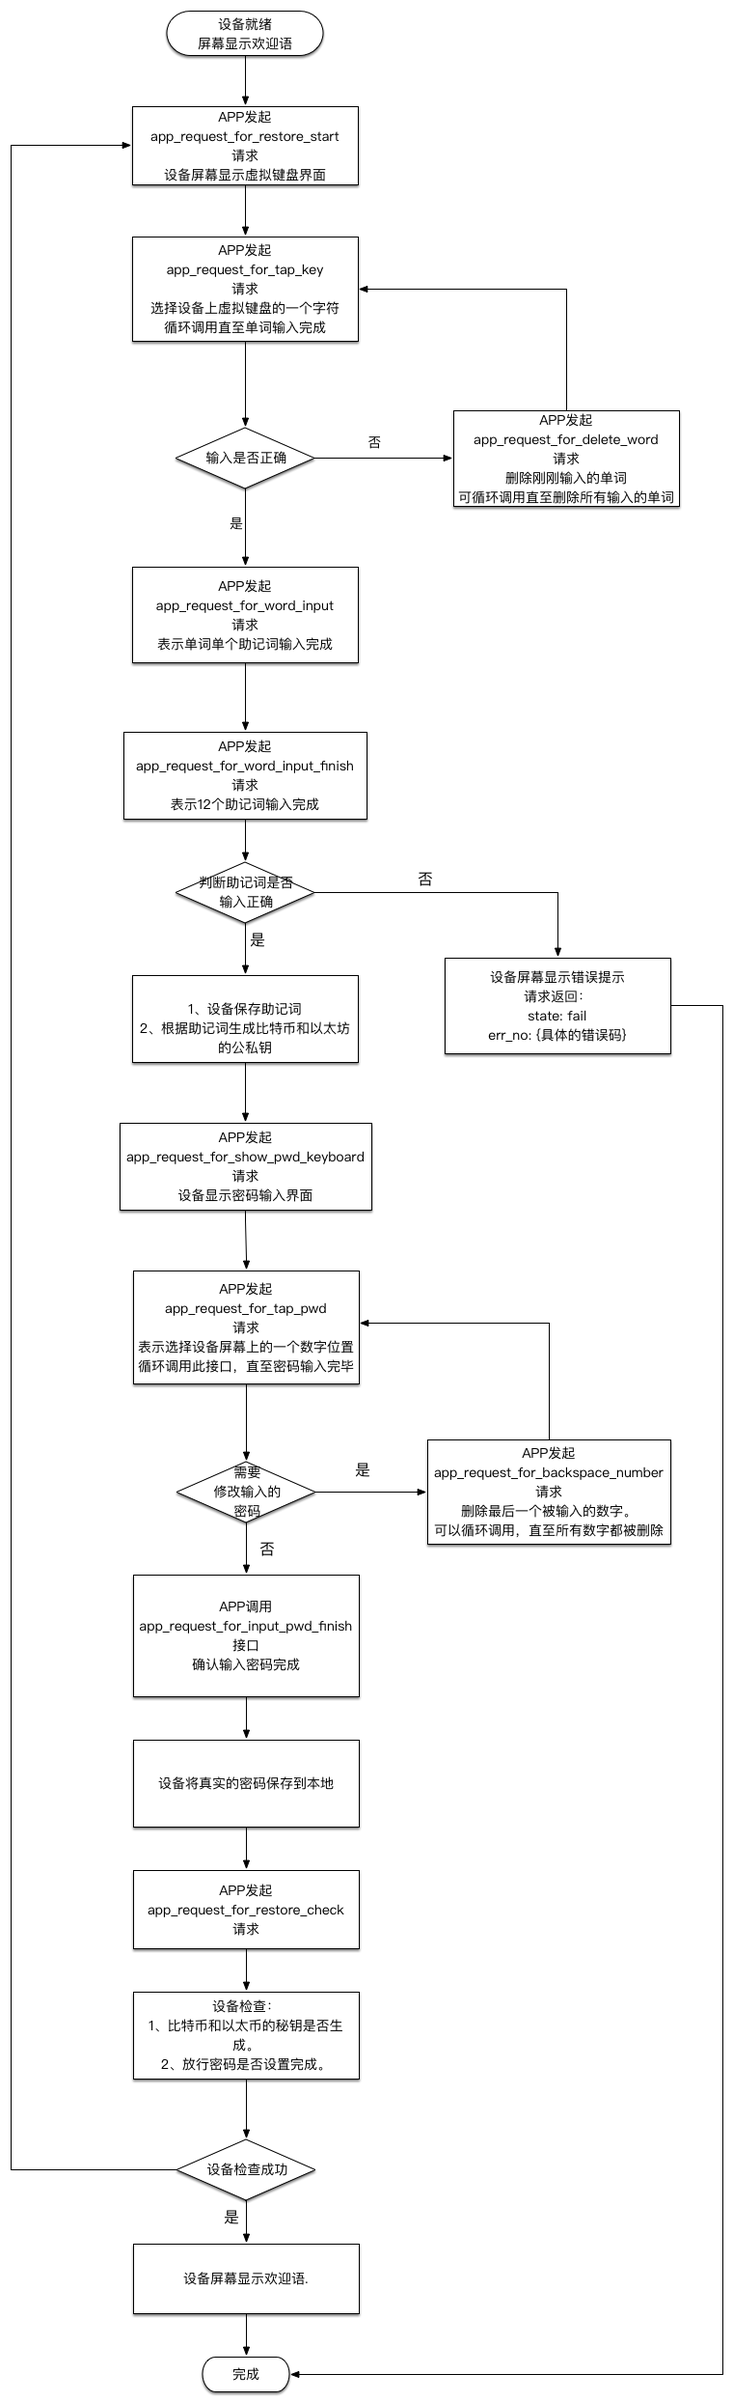
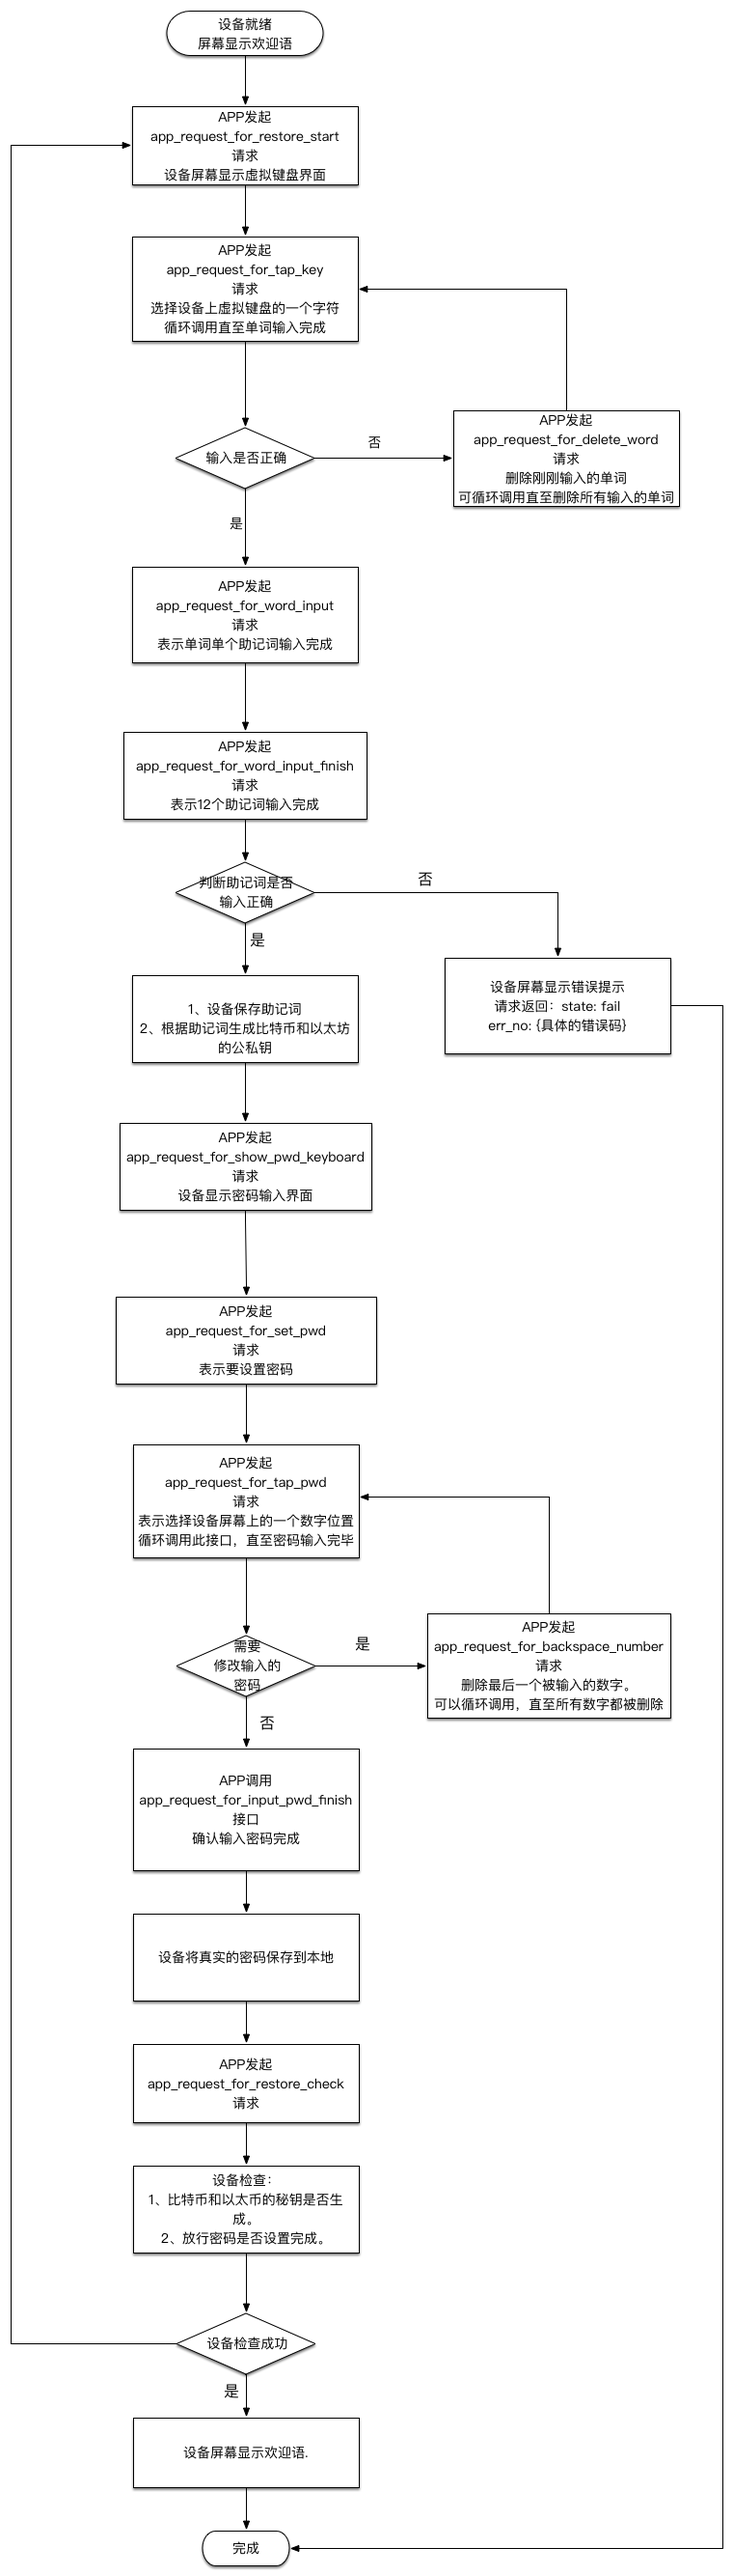
API update

diff --git a/zh-cn/HD Wallet Communication API.md b/zh-cn/HD Wallet Communication API.md
@@ -41,7 +41,21 @@
     unit: 单位 BTC, ETH, EOS, ...
   </td></tr>
 
+  <tr><td>v2.0</td><td>2018-07-06</td><td>
+    app_request_for_restore_check, app_request_for_init接口增加testnet参数
+    <br>
+    app_request_for_restore_check, app_request_for_init_check接口增加ok_for_device_name,ok_for_pin, root_address, bitcoin_pub, bitcoin_address, eth_pub, eth_address返回值。
+    <br>
+    device_request_for_connection接口增加bitcoin_pub, bitcoin_address, eth_pub, eth_address四个参数
+    <br>
+    添加恢复出厂设置接口 app_request_for_device_reset
+    <br>
+    添加助记词随机验证接口 app_request_for_mnemonic_check_start, app_request_for_mnemonic_check_input
+  </td></tr>
+
   
+
+ 
 </table>
 
 ## API目录
@@ -63,15 +77,22 @@
     <td>每次插入设备需要给APP传递的消息</td></tr>
 
 
-  <tr><th rowspan="4">设备初始化</th>
+  <tr><th rowspan="6">设备初始化</th>
     <td><a href="#app_request_for_init">app_request_for_init</a></td>
     <td>在设备屏幕上显示助记词</td></tr>
   <tr><td><a href="#app_request_for_set_pwd">app_request_for_set_pwd</a></td>
     <td>设置密码</td></tr>
   <tr><td><a href="#app_request_for_mnemonic_page">app_request_for_mnemonic_page</a></td>
     <td>助记词显示页面的翻页</td></tr>
+  <tr><td><a href="#app_request_for_mnemonic_check">app_request_for_mnemonic_check</a></td>
+    <td>开始随机检查助记词</td></tr>
+  <tr><td><a href="#app_request_for_mnemonic_check_input">app_request_for_mnemonic_check_input</a></td>
+    <td>输入设备屏幕显示的助记词位置</td></tr>
+
   <tr><td><a href="#app_request_for_init_check">app_request_for_init_check</a></td>
     <td>APP发起设置初始化完成确认</td></tr>
+
+
 
   <tr><th rowspan="7">设备恢复</th>
     <td><a href="#app_request_for_restore_start">app_request_for_restore_start</a></td>
@@ -108,6 +129,11 @@
   <tr><td><a href="#app_request_for_signature_check">app_request_for_signature_check</a></td>
     <td>签名检查</td></tr>
 
+  <tr><th rowspan="2">恢复出厂设置</th>
+    <td><a href="#app_request_for_device_reset">app_request_for_device_reset</a></td>
+    <td>恢复出厂设置</td></tr>
+
+  
 </table>
 
 ## 手机APP与硬件钱包外设通信时的互信解决办法
@@ -316,7 +342,11 @@ device_name: 设备名                // (String) 设备名字
 device_software_version: 1.0.1    // (String) 设备软件版本
 device_firmware_version: 1.0.1    // (String) 设备固件版本
 initialized: 1                    // (String) 设备是否已经完成过初始化 1: 已经完成过初始化, 0: 未完成初始化（这是个新设备）
-root_address: 1                    // (String) 比特币格式的账户ROOT地址
+root_address: 1                   // (String) 比特币格式的账户ROOT地址
+bitcoin_pub: xxxx                 // (String) 比特币公钥
+bitcoin_address: xxxx             // (String) 比特币地址
+eth_pub: xxxx                     // (String) 以太币公钥
+eth_address: xxxx                 // (String) 以太币地址
 ...</code></pre>
 
 #### APP返回的内容
@@ -350,6 +380,7 @@ user_unique_code: user_unique_code    // (String) 唯一标识用户的一个字
 #### APP请求的内容
 
 <pre><code>method: app_request_for_init
+testnet: 1                  // (Int) 1表示使用测试网络，0表示使用正式网络。默认为0
 ...</code></pre>
 
 #### 外设返回的内容
@@ -419,6 +450,13 @@ pwd_ticket: aasd1233    // (String) 放行密码确认后生成的凭证
 ##### 成功
 
 <pre><code>method: app_request_for_init_check
+ok_for_device_name: yes                      // (string) 设备名称是否设置完成， yes/no
+ok_for_pin: yes                              // (string) 设备密码是否设置完成， yes/no
+root_address: xxxxxx                         // (string) root地址
+bitcoin_pub: xxxxxx                          // (string) 比特币公钥
+bitcoin_address: xxxxxx                      // (string) 比特币地址
+eth_pub: xxxxxx                              // (string) 以太币公钥
+eth_address: xxxxxx                          // (string) 以太币地址
 ...</code></pre>
 
 ##### 失败
@@ -452,6 +490,58 @@ page: 1    // (Int) 显示的页码
 <pre><code>method: app_request_for_mnemonic_page
 ...</code></pre>
 
+### <a id="app_request_for_mnemonic_check"></a>设备初始化 开始随机检查助记词
+<table><tr><th>接口名称</th><td>app_request_for_mnemonic_check</td></tr>
+<tr><th>数据发起方</th><td>APP</td></tr>
+<tr><th>数据接收方</th><td>外设</td></tr></table>
+
+#### 描述
+
+ 在设备屏幕上随机显示4个已经存放好的助记词。然后在APP中输入这三个助记词的正确位置，以此判断用户是否正确存储了助记词。
+
+
+#### APP请求的内容
+
+<pre><code>method: app_request_for_mnemonic_check
+...</code></pre>
+
+#### 外设返回的内容
+  
+##### 成功
+<pre><code>method: app_request_for_mnemonic_check
+...</code></pre>
+
+##### 失败
+<pre><code>method: app_request_for_mnemonic_check
+...</code></pre>
+
+
+### <a id="app_request_for_mnemonic_check_input"></a>设备初始化 输入设备屏幕上显示的助记词位置
+<table><tr><th>接口名称</th><td>app_request_for_mnemonic_check_input</td></tr>
+<tr><th>数据发起方</th><td>APP</td></tr>
+<tr><th>数据接收方</th><td>外设</td></tr></table>
+
+#### 描述
+
+ 输入设备屏幕上显示的助记词位置。为4个数字
+
+
+#### APP请求的内容
+
+<pre><code>method: app_request_for_mnemonic_check_input
+index: 1,2,6,4    // (String) 4个助记词的位置
+...</code></pre>
+
+#### 外设返回的内容
+  
+##### 成功
+<pre><code>method: app_request_for_mnemonic_check_input
+...</code></pre>
+
+##### 失败
+<pre><code>method: app_request_for_mnemonic_check_input
+...</code></pre>
+
 ## 设备恢复
 
 ### <a id="app_request_for_restore_start"></a>开始恢复设备。显示虚拟助记词录入的键盘
@@ -477,6 +567,7 @@ page: 1    // (Int) 显示的页码
 ##### 成功
 
 <pre><code>method: app_request_for_restore_start
+testnet: 1                  // (Int) 1表示使用测试网络，0表示使用正式网络。默认为0
 ...</code></pre>
 
 ##### 失败
@@ -662,6 +753,13 @@ letter_index: 1    // (String) 输入的字母顺序
 ##### 成功
 
 <pre><code>method: app_request_for_restore_check
+ok_for_device_name: yes                      // (string) 设备名称是否设置完成， yes/no
+ok_for_pin: yes                              // (string) 设备密码是否设置完成， yes/no
+root_address: xxxxxx                         // (string) root地址
+bitcoin_pub: xxxxxx                          // (string) 比特币公钥
+bitcoin_address: xxxxxx                      // (string) 比特币地址
+eth_pub: xxxxxx                              // (string) 以太币公钥
+eth_address: xxxxxx                          // (string) 以太币地址
 ...</code></pre>
 
 ##### 失败
@@ -871,4 +969,32 @@ content: 000000xxxxxxxxx0000    //（String）签名后的交易字符串
 ##### 失败
 
 <pre><code>method: app_request_for_signature_check
+...</code></pre>
+
+
+## 恢复出厂设置
+
+### <a id="app_request_for_device_reset"></a>恢复出厂设置
+<table><tr><th>接口名称</th><td>app_request_for_device_reset</td></tr>
+<tr><th>数据发起方</th><td>APP</td></tr>
+<tr><th>数据接收方</th><td>外设</td></tr></table>
+
+#### 描述
+  请求设备恢复设备出厂设置，擦除设备上原有一切信息。
+
+#### APP请求的内容
+
+<pre><code>method: app_request_for_device_reset
+...</code></pre>
+
+#### 外设返回的内容
+
+##### 成功
+
+<pre><code>method: app_request_for_device_reset
+...</code></pre>
+
+##### 失败
+
+<pre><code>method: app_request_for_device_reset
 ...</code></pre>
